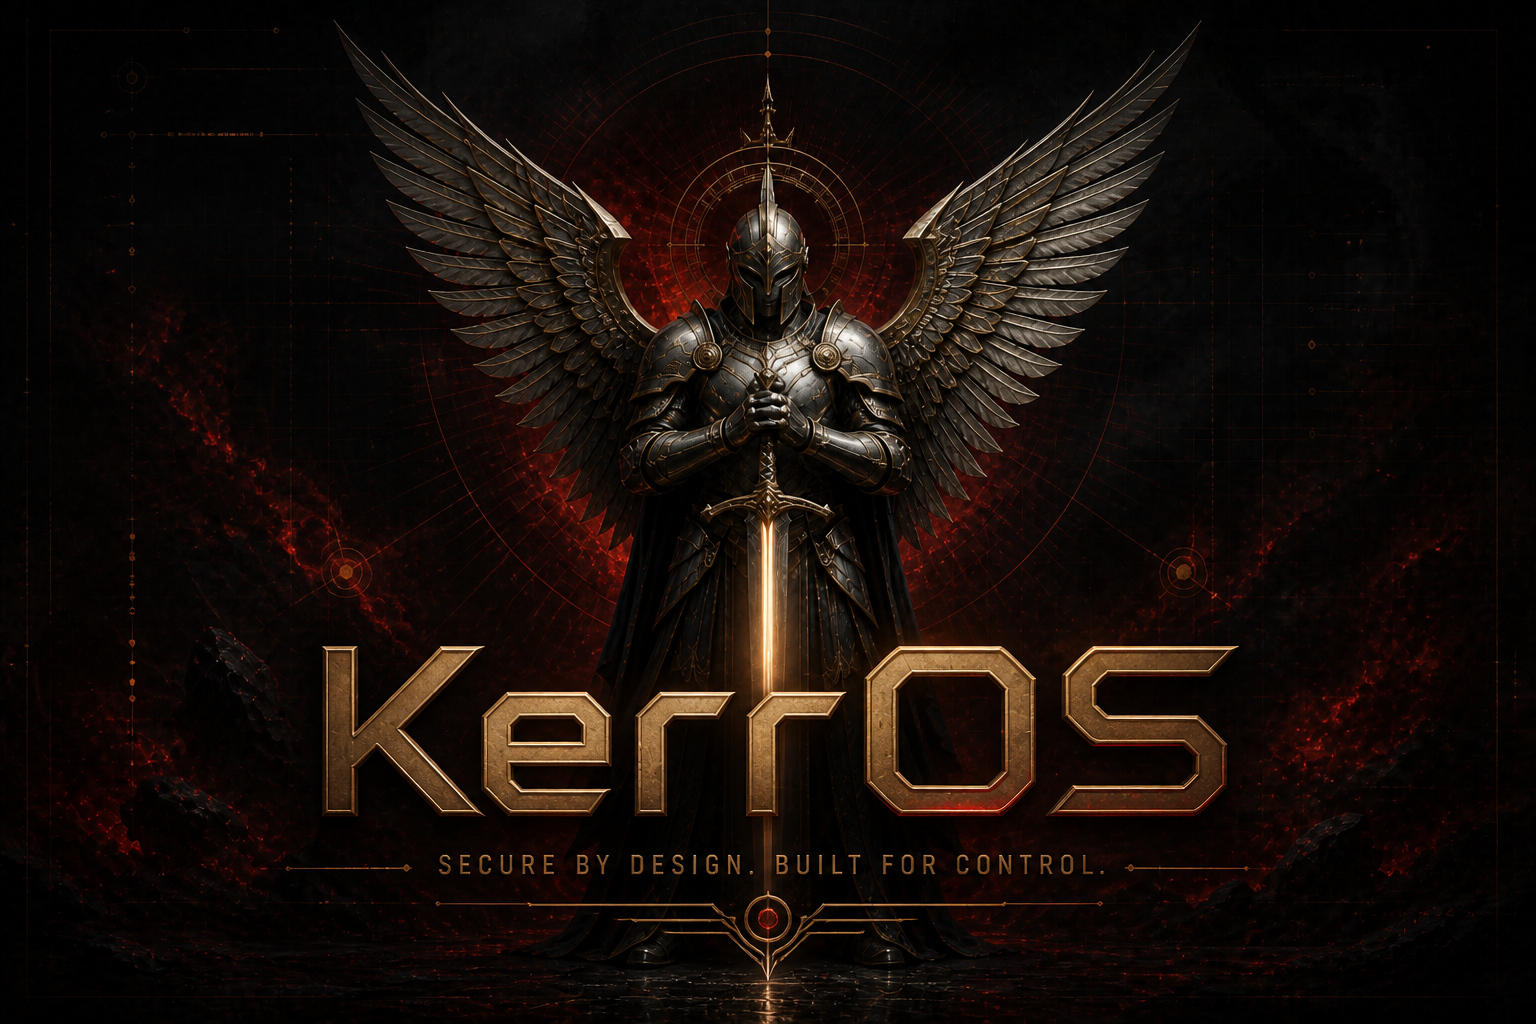
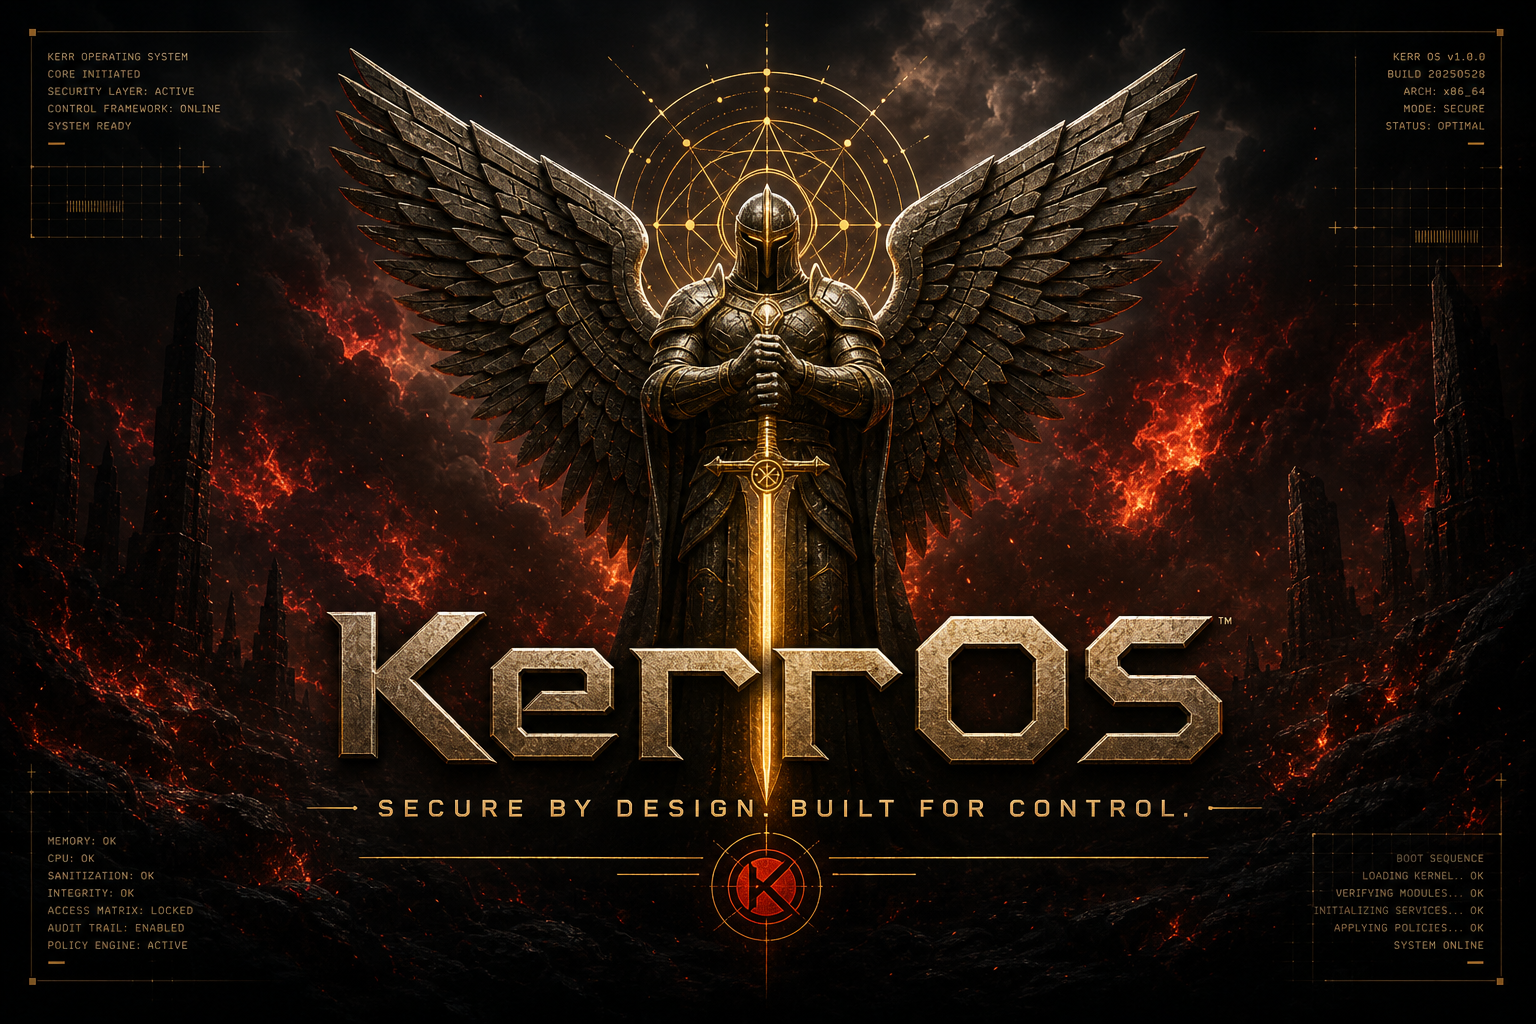
Adopt official KerrOS heraldic splash with tagline
Lock in angel/sword splash art with KerrOS wordmark and
"Secure by design. Built for control." across boot assets and CLI chrome.

diff --git a/cli/ui.py b/cli/ui.py
@@ -37,6 +37,7 @@ STEEL = "\033[38;2;180;190;200m"
 CRIMSON = "\033[1;38;2;176;48;48m"
 
 VERSION = "1.0"
+TAGLINE = "SECURE BY DESIGN. BUILT FOR CONTROL."
 
 # Heraldic angel wings + sword tip (brand) — refined geometry, not cartoon.
 ANGEL_MARK = f"""
@@ -64,6 +65,7 @@ WORDMARK = f"""
 ANGEL_LOGO = ANGEL_MARK + WORDMARK + f"""
 {GOLD}           ────────────────────────────────
 {GOLD}{BOL}                     v {VERSION}
+{STEEL}{DIM}      {TAGLINE}
 {GOLD}           ────────────────────────────────
 """
 
@@ -196,7 +198,7 @@ def print_welcome_banner(
     if model_hint:
         print(f"  {GY}model{R}     {STEEL}{model_hint}{R}")
     print(f"  {GY}commands{R}  {YL}/help{R}  {DIM}· slash tools · claw fs · agents{R}")
-    print(f"  {GY}brand{R}     {GOLD}angel · sword{R}  {DIM}— stay sharp{R}")
+    print(f"  {GY}brand{R}     {GOLD}angel · sword{R}  {DIM}— {TAGLINE.lower()}{R}")
     divider(56)
     print(f"\n  {BOL}Ready.{R}  {DIM}Ask anything, or lead with /{R}\n")
 
@@ -239,9 +241,10 @@ def boot_sequence() -> None:
         # ASCII path already includes mark + KerrOS wordmark
         print()
     else:
-        # Image carries KerrOS — keep a slim version line only
+        # Image carries KerrOS + tagline — slim version line only
         print(f"{GOLD}           ────────────────────────────────{R}")
         print(f"{GOLD}{BOL}                     v {VERSION}{R}")
+        print(f"{STEEL}{DIM}      {TAGLINE}{R}")
         print(f"{GOLD}           ────────────────────────────────{R}")
         print()
     time.sleep(0.15)

diff --git a/tests/unit_tools/test_cli_ui.py b/tests/unit_tools/test_cli_ui.py
@@ -13,6 +13,8 @@ class CliUiTest(unittest.TestCase):
         self.assertIn("⚔", ANGEL_LOGO)
         self.assertIn("██", WORDMARK)
         self.assertIn("╲", ANGEL_LOGO)
+        from cli.ui import TAGLINE
+        self.assertIn("SECURE BY DESIGN", TAGLINE)
 
     def test_welcome_banner_prints(self):
         from cli.ui import print_welcome_banner
